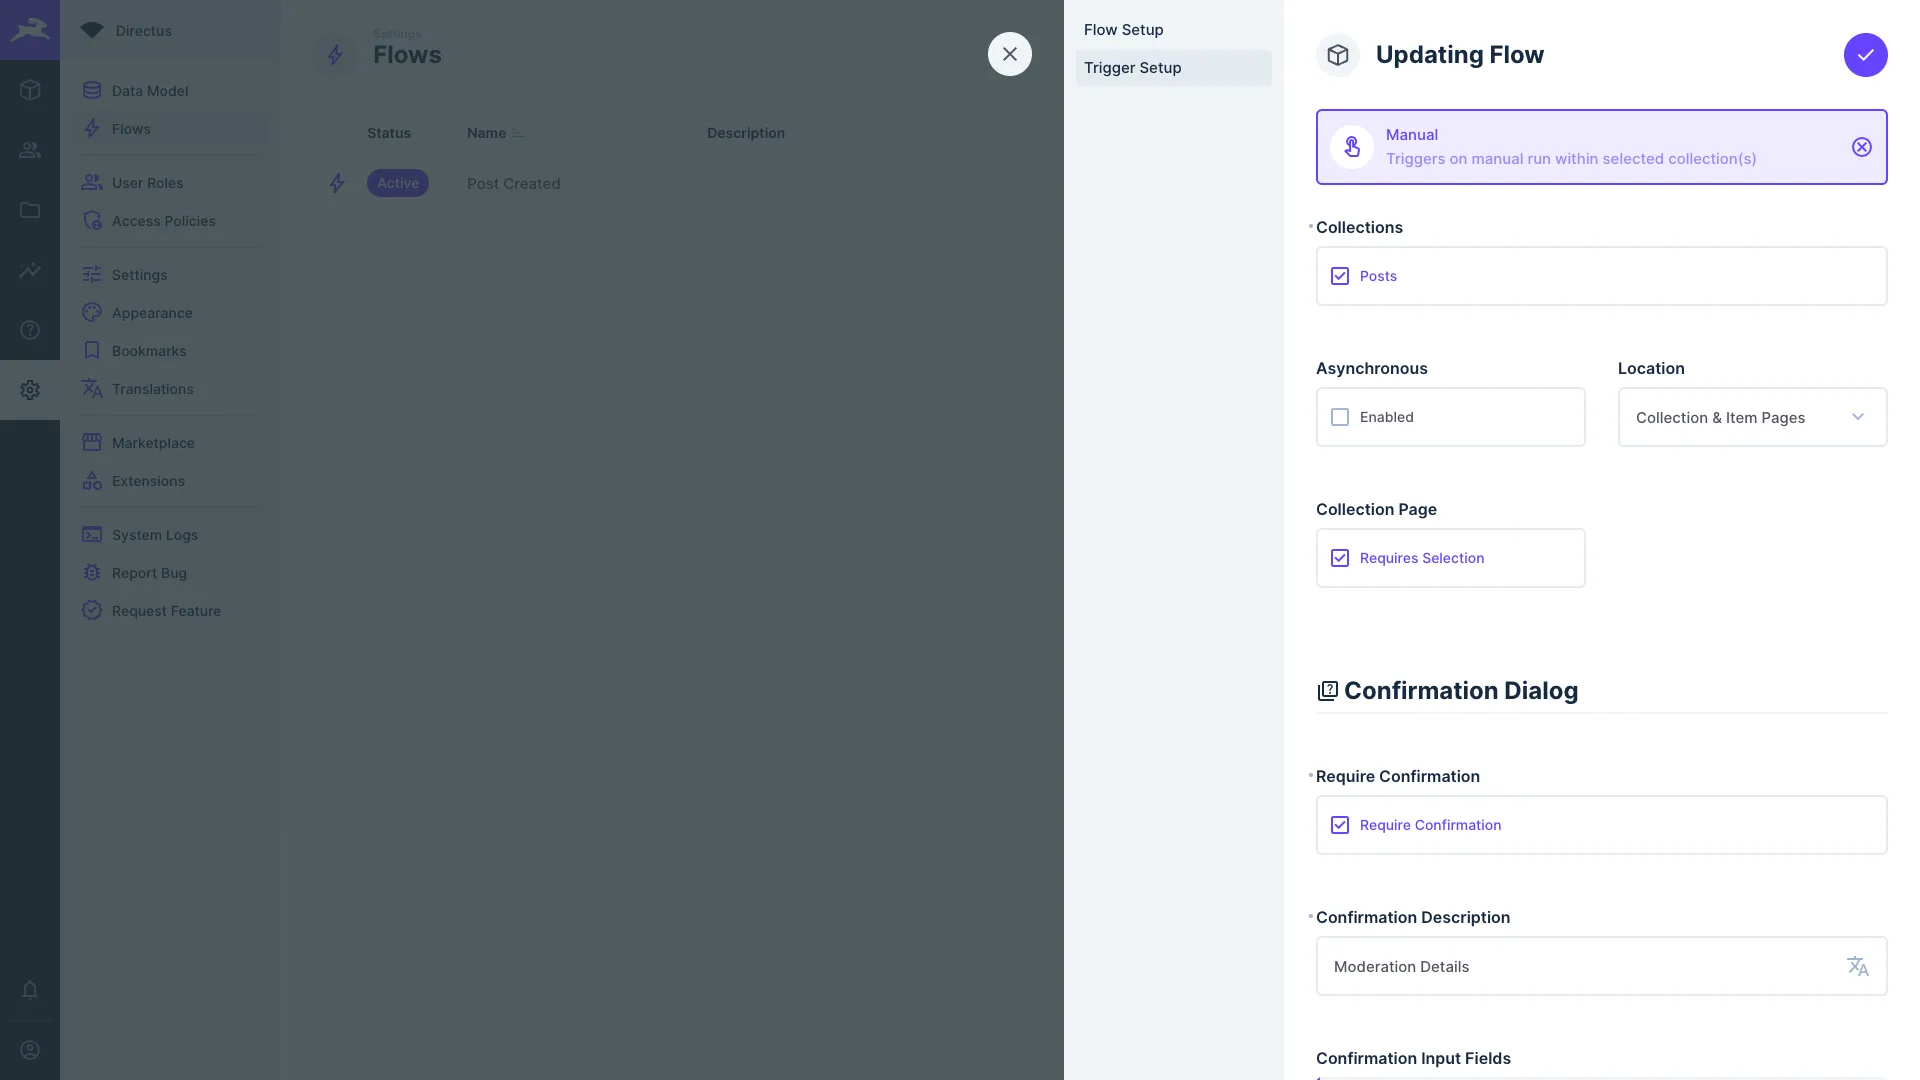
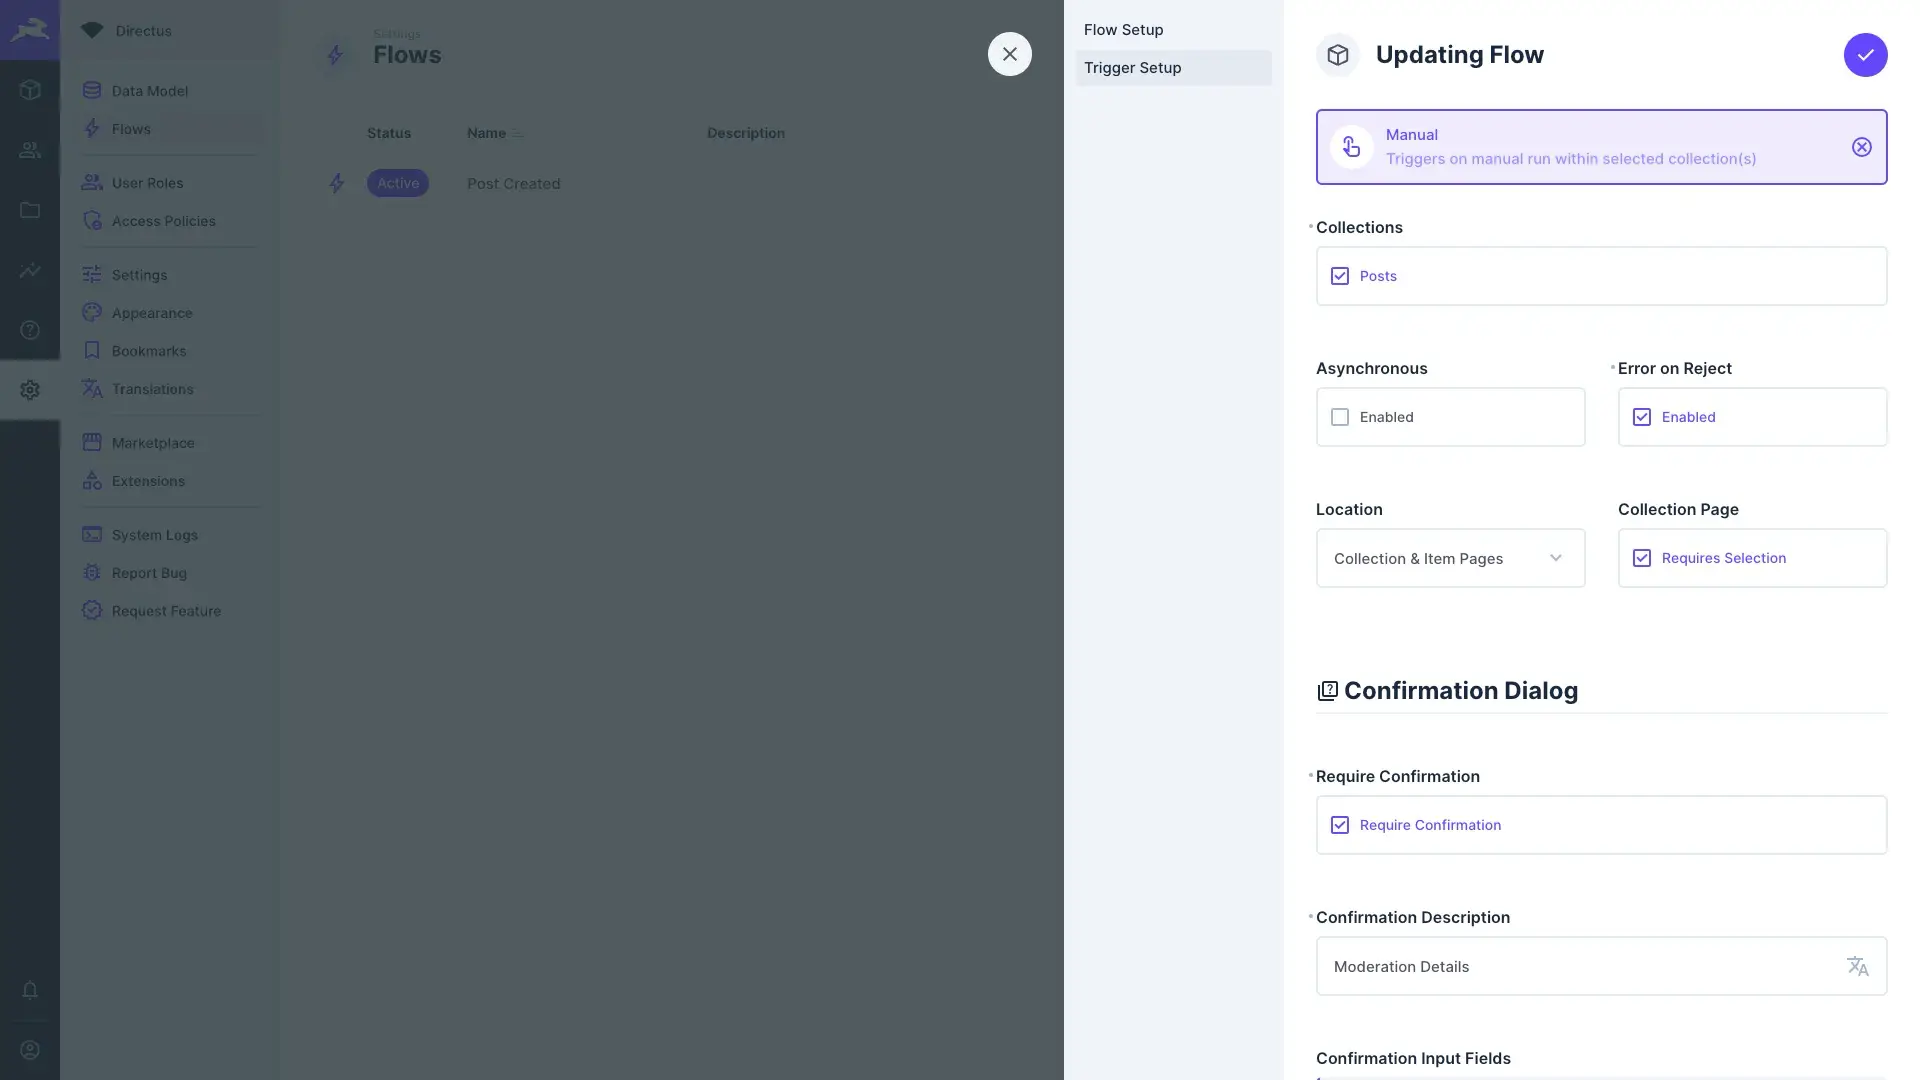
Document the `Error on Reject` option for manual and webhook triggers (#460)
* add missing `Error on Reject` option to manual and webhook triggers

* Update screenshots

* Updating flow instead

---------

diff --git a/content/guides/06.automate/3.triggers.md b/content/guides/06.automate/3.triggers.md
@@ -74,6 +74,7 @@ trigger panel.
   - **Data of Last Operation** — Responds with value from `$last`.
   - **All Data** — Responds with the entire data chain.
   - **Other** — Responds with value from an `<operationKey>`.
+- **Error on Reject** - Choose whether an error should be thrown if the final operation rejects.
 - **Cache** — Choose whether responses to `GET` requests should be stored and served from cache or the cache should be
   bypassed.
 
@@ -146,6 +147,7 @@ automatically. These item IDs are passed in to `$trigger` as an array.
   again. If not, you must wait for the Flow to complete to use it again.
 - **Collection Page (Requires Selection)** — Toggle whether a selection is required in the Collection Page to trigger.
 - **Require Confirmation** - Toggle whether a confirmation dialog will be shown before the Flow is executed.
+- **Error on Reject** - Choose whether an error should be thrown if the final operation rejects.
 
 After the operation runs, a toast notification will appear in your
 sidebar indicating whether the Flow ran successfully.
